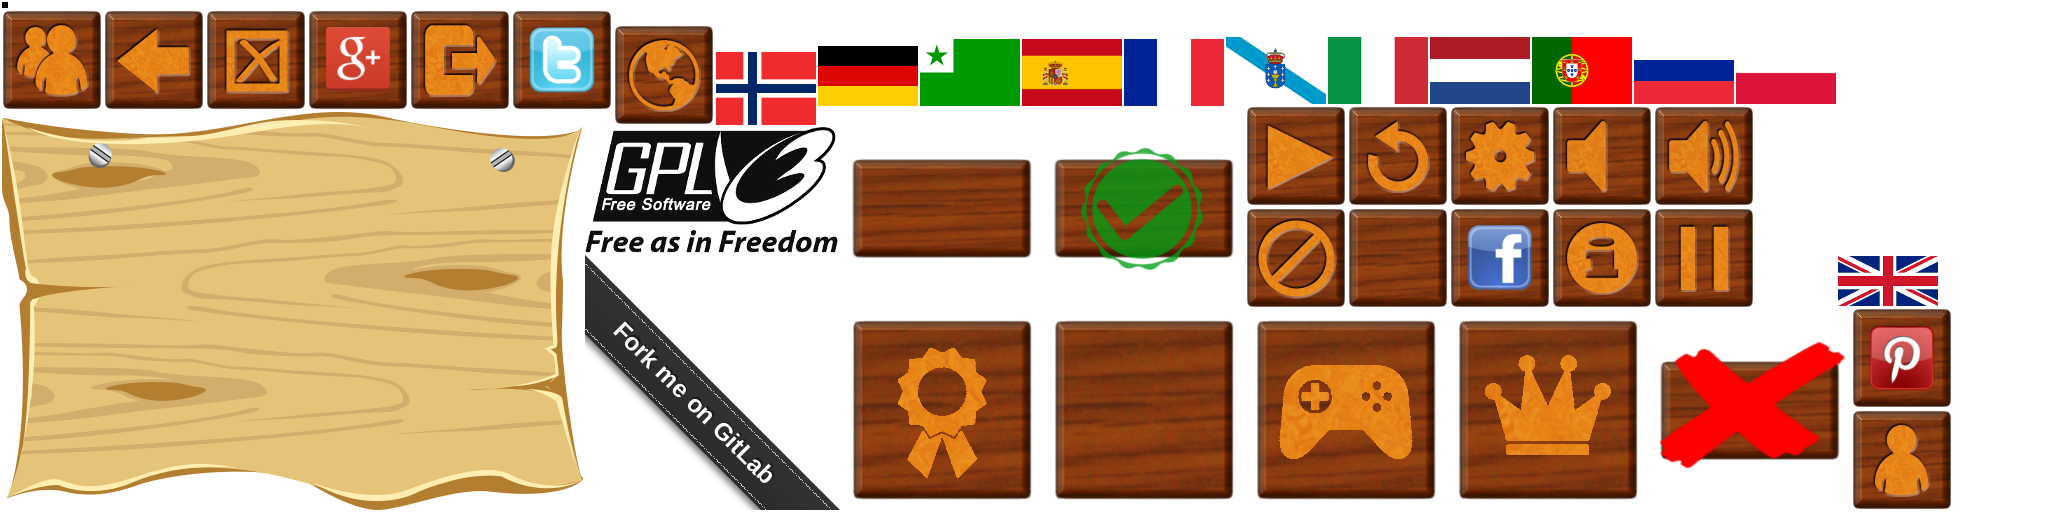
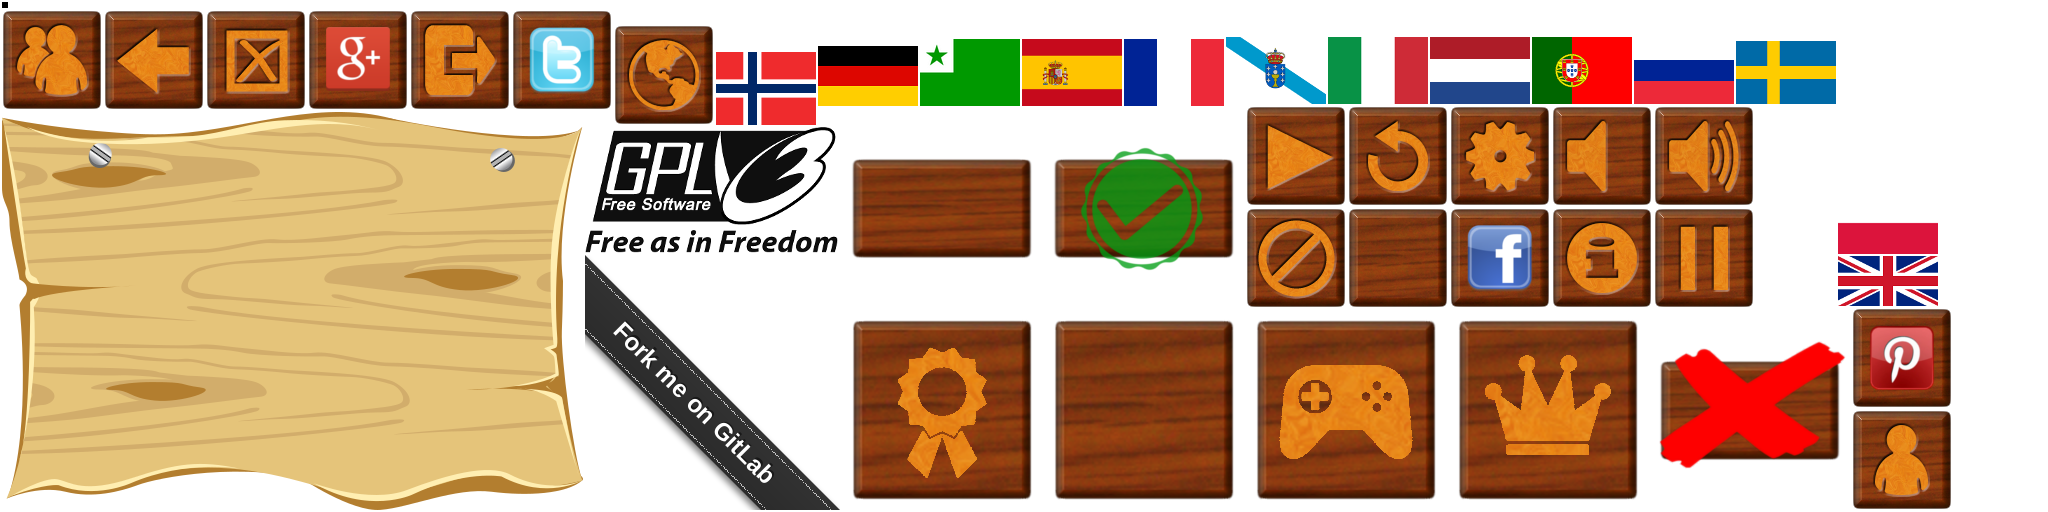
added swedish keyboard, tests, names, screenshots, flag and language selector

Changed region(s): [[0.8438, 0.0625, 0.9062, 0.2188], [0.875, 0.4375, 0.9688, 0.5]]

diff --git a/tests/src-integration/com/gitlab/ardash/appleflinger/testing/integration/DesktopTestdriveTest.java b/tests/src-integration/com/gitlab/ardash/appleflinger/testing/integration/DesktopTestdriveTest.java
@@ -39,8 +39,8 @@ import com.gitlab.ardash.appleflinger.screens.MissionSelectScreen;
 
 public class DesktopTestdriveTest implements ActionResolver{
 	
-//	private static final String [] langs = {"de","en","eo","es","fr","gl","it","nb","nl","pl","pt"}; // all latin
-	private static final String [] langs = {"es","gl","it","pt"}; // recently updated ones
+//	private static final String [] langs = {"de","en","eo","es","fr","gl","it","nb","nl","pl","pt","sv"}; // all latin
+	private static final String [] langs = {"sv"}; // recently updated ones
 //	private static final String [] langs = {"ru"}; // separate non-latin load
 	
 	private static final Mission [] missions = {Mission.M_1_1, Mission.M_1_3, Mission.M_1_4
@@ -116,6 +116,8 @@ public class DesktopTestdriveTest implements ActionResolver{
 		n2.put("pt", "Valencia".toUpperCase());
 		n1.put("ru", "Михаи́л".toUpperCase());
 		n2.put("ru", "Светлана".toUpperCase());
+		n1.put("sv", "Anders".toUpperCase());
+		n2.put("sv", "Karin".toUpperCase());
 		
 		if (player == 1)
 			ret = n1.get(lang);

diff --git a/core/src/com/gitlab/ardash/appleflinger/screens/TextInputDialog.java b/core/src/com/gitlab/ardash/appleflinger/screens/TextInputDialog.java
@@ -132,8 +132,7 @@ public class TextInputDialog extends AdvancedDialog{
 			tblContent.row();
 			tblContent.add(makeKeyboardRow("ZXCVBNM"));
 			tblContent.row();
-		}
-		else if (langCode.equals("de")) {
+		} else if (langCode.equals("de")) {
 			tblContent.row();
 			tblContent.add(makeKeyboardRow("QWERTZUIOPÜ"));
 	        tblContent.add(btnBackSpace);
@@ -187,6 +186,15 @@ public class TextInputDialog extends AdvancedDialog{
 			tblContent.add(makeKeyboardRow("ФЫВАПРОЛДЖЭ"));
 			tblContent.row();
 			tblContent.add(makeKeyboardRow("ЯЧСМИТЬБЮЁ"));
+			tblContent.row();
+		} else if (langCode.equals("sv")) {
+			tblContent.row();
+			tblContent.add(makeKeyboardRow("QWERTYUIOPÅ"));
+	        tblContent.add(btnBackSpace);
+			tblContent.row();
+			tblContent.add(makeKeyboardRow("ASDFGHJKLÖÄ"));
+			tblContent.row();
+			tblContent.add(makeKeyboardRow("ZXCVBNM"));
 			tblContent.row();
 		} else {
 			tblContent.row();

diff --git a/desktop/src/com/gitlab/ardash/appleflinger/desktop/DesktopLauncher.java b/desktop/src/com/gitlab/ardash/appleflinger/desktop/DesktopLauncher.java
@@ -19,6 +19,7 @@ package com.gitlab.ardash.appleflinger.desktop;
 import com.badlogic.gdx.Gdx;
 import com.badlogic.gdx.backends.lwjgl.LwjglApplication;
 import com.badlogic.gdx.backends.lwjgl.LwjglApplicationConfiguration;
+import com.badlogic.gdx.tools.texturepacker.TexturePacker;
 import com.badlogic.gdx.tools.texturepacker.TexturePacker.Settings;
 import com.gitlab.ardash.appleflinger.ActionResolver;
 import com.gitlab.ardash.appleflinger.AppleflingerGame;
@@ -56,7 +57,7 @@ public class DesktopLauncher implements ActionResolver{
         settings.maxHeight = 2048;
 //		TexturePacker.process(settings, "../art/sprites/ui", "../android/assets", "ui");
 //		TexturePacker.process(settings, "../art/sprites/scene", "../android/assets", "scene");
-		
+		TexturePacker t; // keep this here, otherwise import gets always removed
 		try
 		{
 			new LwjglApplication(new AppleflingerGame(this), config);

diff --git a/core/src/com/gitlab/ardash/appleflinger/screens/CreditsDialog.java b/core/src/com/gitlab/ardash/appleflinger/screens/CreditsDialog.java
@@ -24,7 +24,7 @@ import com.gitlab.ardash.appleflinger.helpers.BackButtonAdapter;
 import com.gitlab.ardash.appleflinger.i18n.I18N;
 
 public class CreditsDialog extends AdvancedDialog{
-	static String translators="Allan Nordhøy, Andreas Redmer, ButterflyOfFire, Dmitry Mikhirev, Heimen Stoffels, Iván, Iván Seoane, Jonatan Nyberg, Markel, Markel @wakutiteo, Sérgio Marques, Sukhichev Mikhail Ivanovich, Verdulo, WaldiS, xin, xxssmaoxx, ";
+	static String translators="Allan Nordhøy, Andreas Redmer, ButterflyOfFire, Dmitry Mikhirev, Heimen Stoffels, Iván Seoane, Jonatan Nyberg, Markel, Sérgio Marques, Simon Dottor, Sukhichev Mikhail Ivanovich, Verdulo, WaldiS, xin, ";
 	
 	public CreditsDialog() 
 	{

diff --git a/core/src/com/gitlab/ardash/appleflinger/screens/LanguageDialog.java b/core/src/com/gitlab/ardash/appleflinger/screens/LanguageDialog.java
@@ -57,6 +57,7 @@ public class LanguageDialog extends AdvancedDialog{
 		getContentTable().add(makeLingoButton(Assets.SpriteAsset.FLAG_PL, "\n\npolski"));
 		getContentTable().add(makeLingoButton(Assets.SpriteAsset.FLAG_PT, "\n\nportuguês"));
 		getContentTable().add(makeLingoButton(Assets.SpriteAsset.FLAG_RU, "\n\nрусский")); //russkiy
+		getContentTable().add(makeLingoButton(Assets.SpriteAsset.FLAG_SV, "\n\nsvenska"));
 
         getContentTable().row();
         

diff --git a/tests/src/com/gitlab/ardash/appleflinger/testing/sanity/AssetTest.java b/tests/src/com/gitlab/ardash/appleflinger/testing/sanity/AssetTest.java
@@ -122,6 +122,13 @@ public class AssetTest {
 	}
 	
 	@Test
+	public void isI18NWorkingForSV() {
+		I18N.loadLanguageBundle("sv");
+		assertEquals("Välj en nivå", I18N.s("chooseALevel"));
+		assertEquals("SPELET ÖVER", I18N.s("gameOver"));
+	}
+	
+	@Test
 	/**
 	 * just set back to english. The last test always sets it to an unsuitable language at dev time
 	 */

diff --git a/core/src/com/gitlab/ardash/appleflinger/global/Assets.java b/core/src/com/gitlab/ardash/appleflinger/global/Assets.java
@@ -287,6 +287,7 @@ public class Assets {
 		FLAG_PL,
 		FLAG_PT,
 		FLAG_RU,
+		FLAG_SV,
 		FORK_ME,
 		GPL3,
 		SLIDERBACK,

diff --git a/AUTHORS.md b/AUTHORS.md
@@ -5,10 +5,10 @@ We'd like to thank the following people for their contributions:
 
 - Allan Nordhøy \<epost⒜anotheragency∙no\>
 - Andreas Redmer \<ar-appleflinger⒜abga∙be\>
+- Andreas Redmer \<ar-gdroid⒜abga∙be\>
 - ButterflyOfFire \<ButterflyOfFire⒜protonmail∙com\>
 - Dmitry Mikhirev \<mikhirev⒜gmail∙com\>
 - Heimen Stoffels \<vistausss⒜outlook∙com\>
-- Iván \<ivanrsm1997⒜gmail∙com\>
 - Iván Seoane \<ivanrsm1997⒜gmail∙com\>
 - Jonatan Nyberg \<jonatan∙nyberg∙karl⒜gmail∙com\>
 - Markel \<wakutiteo⒜protonmail∙com\>
